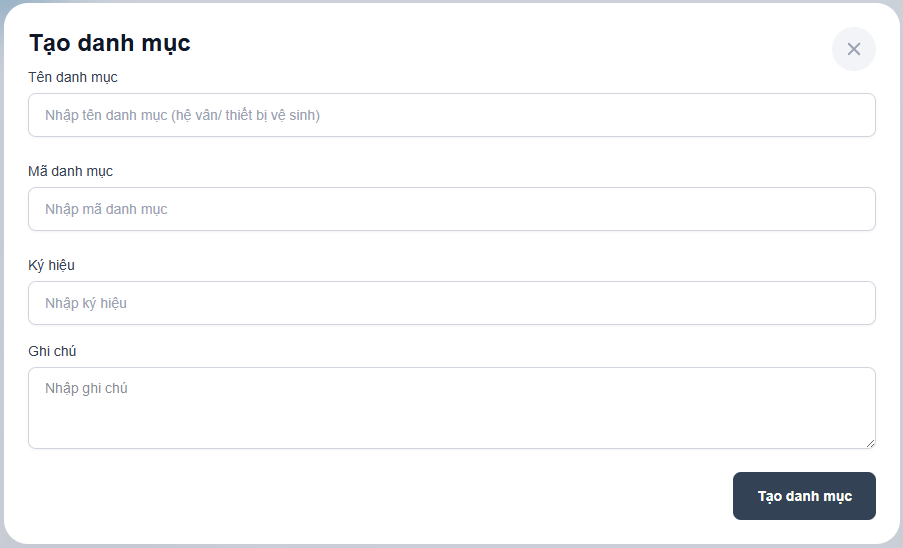
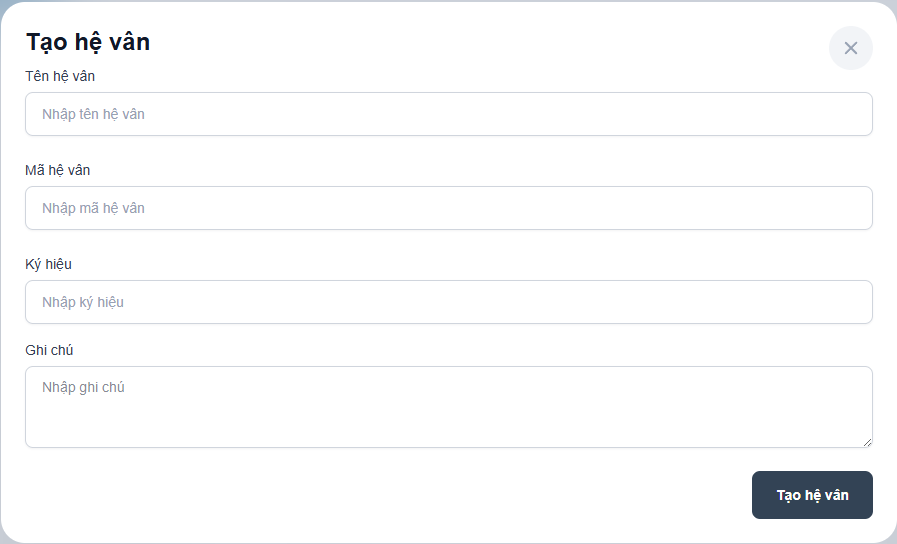
update guide UI

Changed region(s): [[0.0, 0.0, 1.0, 1.0], [0.9677, 0.0, 0.9989, 0.0312], [0.9365, 0.0625, 0.9677, 0.0938]]

diff --git a/src/app/common/guide.tsx b/src/app/common/guide.tsx
@@ -50,10 +50,10 @@ const UsageGuide: React.FC = () => {
         <ul className="mt-3 list-disc space-y-2 pl-5 text-sm text-gray-600 dark:text-gray-300">
           <img src="../../../public/images/guide/Thông%20Tin%20Website%20Form.png" alt="Tạo Mã Hàng" className="w-full h-auto rounded-lg" />
           <br />
-          <h3 className="text-lg font-semibold text-gray-900 dark:text-white">Đối với Google Keeps: </h3>
+          <h3 className="text-lg font-semibold text-gray-900 dark:text-white">Đối Với Google Keeps: </h3>
           <li>Copy nội dung trong phần <b>Thông tin kỹ thuật</b>. copy tới dải phân cách <b>"----"</b></li>
           <li>Tạo mới một trang <a href="https://keep.google.com/u/0/#label/TCT%20GROUP" target="_blank" rel="noopener noreferrer" className="text-blue-500 hover:underline font-semibold">Google Keep</a> và dán nội dung đã copy.</li>
-          <h3 className="text-lg font-semibold text-gray-900 dark:text-white">Đối với đăng website TCT Homemart: </h3>
+          <h3 className="text-lg font-semibold text-gray-900 dark:text-white">Đối Với Đăng Website TCT Homemart: </h3>
           <li>Copy mã sản phẩm</li>
           <li>Copy các thông số liên quan trong và sau phần <b>Thông tin kỹ thuật</b></li>
           <li>Chọn <b>Sản Phẩm</b> -{'>'} <b>Thêm mới</b></li>
@@ -62,11 +62,22 @@ const UsageGuide: React.FC = () => {
       </section>
 
       <section className="rounded-xl border border-gray-200 bg-white p-5 dark:border-gray-800 dark:bg-gray-900">
-        <h2 className="text-lg font-semibold text-gray-900 dark:text-white">Strategy</h2>
+        <h2 className="text-lg font-semibold text-gray-900 dark:text-white">Hướng dẫn Hệ Vân</h2>
         <ul className="mt-3 list-disc space-y-2 pl-5 text-sm text-gray-600 dark:text-gray-300">
-          <li>Truy cập <b>Bảng tính giá</b> để tính toán theo dữ liệu sản phẩm.</li>
-          <li>Đối chiếu danh mục và thông số trước khi áp dụng giá.</li>
-          <li>Cập nhật chiến lược giá theo từng nhóm hàng / thị trường.</li>
+          <img src="../../../public/images/guide/Hệ%20Vân%20Page.png" alt="Page Hệ Vân" className="w-full h-auto rounded-lg" />
+          <br />
+          <h3 className="text-lg font-semibold text-gray-900 dark:text-white">Cách Truy Vấn: </h3>
+          <li>Truy vấn vào Menu Danh Mục Sản Phẩm -{'>'} <b>Hệ Vân</b> .</li>
+          <h3 className="text-lg font-semibold text-gray-900 dark:text-white">Tạo Hệ Vân: </h3>
+          <img src="../../../public/images/guide/Hệ%20Vân%20Form.png" alt="Form Hệ Vân" className="w-full h-auto rounded-lg" />
+          <br />
+          <li>Chọn <b>Tạo Hệ Vân</b> để tạo hệ vân mới.</li>
+          <li>Nhập thông tin cần thiết và nhấn <b>Lưu</b>.</li>
+          <h3 className="text-lg font-semibold text-gray-900 dark:text-white">Thông Tin Cơ Bản: </h3>
+          <li><b>Tên Hệ Vân:</b> Tên của hệ vân cần tạo.</li>
+          <li><b>Mã Hệ Vân:</b> Mã của hệ vân cần tạo.</li>
+          <li><b>Ký Hiệu:</b> Ký hiệu của hệ vân cần tạo. (trường hợp đặc biệt)</li>
+          <li><b>Ghi Chú:</b> Thông tin ghi chú thêm cho hệ vân.</li>
         </ul>
       </section>
     </div>

diff --git a/src/pages/Tables/pattern/PatternTable.tsx b/src/pages/Tables/pattern/PatternTable.tsx
@@ -74,12 +74,12 @@ function PatternTable() {
           className="text-white"
           modalContent={
             <div>
-              <h1 className="text-2xl font-bold mb-2 text-black">Tạo danh mục</h1>
+              <h1 className="text-2xl font-bold mb-2 text-black">Tạo hệ vân</h1>
               <div className="grid grid-cols-2 gap-4 space-y-2">
                 <div className="col-span-2">
-                  <ProductLabel>Tên danh mục</ProductLabel>
+                  <ProductLabel>Tên hệ vân</ProductLabel>
                   <Input
-                    placeholder="Nhập tên danh mục (hệ vân/ thiết bị vệ sinh)"
+                    placeholder="Nhập tên hệ vân"
                     value={patternStore.patternForm.name}
                     onChange={(e) =>
                       patternStore.updatePatternForm("name", e.target.value.toUpperCase())
@@ -87,9 +87,9 @@ function PatternTable() {
                   />
                 </div>
                 <div className="col-span-2">
-                  <ProductLabel>Mã danh mục</ProductLabel>
+                  <ProductLabel>Mã hệ vân</ProductLabel>
                   <Input
-                    placeholder="Nhập mã danh mục"
+                    placeholder="Nhập mã hệ vân"
                     value={patternStore.patternForm.shortCode}
                     onChange={(e) =>
                       patternStore.updatePatternForm(
@@ -152,7 +152,7 @@ function PatternTable() {
                       Đang xử lý...
                     </>
                   ) : (
-                    "Tạo danh mục"
+                    "Tạo hệ vân"
                   )}
                 </Button>
               </div>
